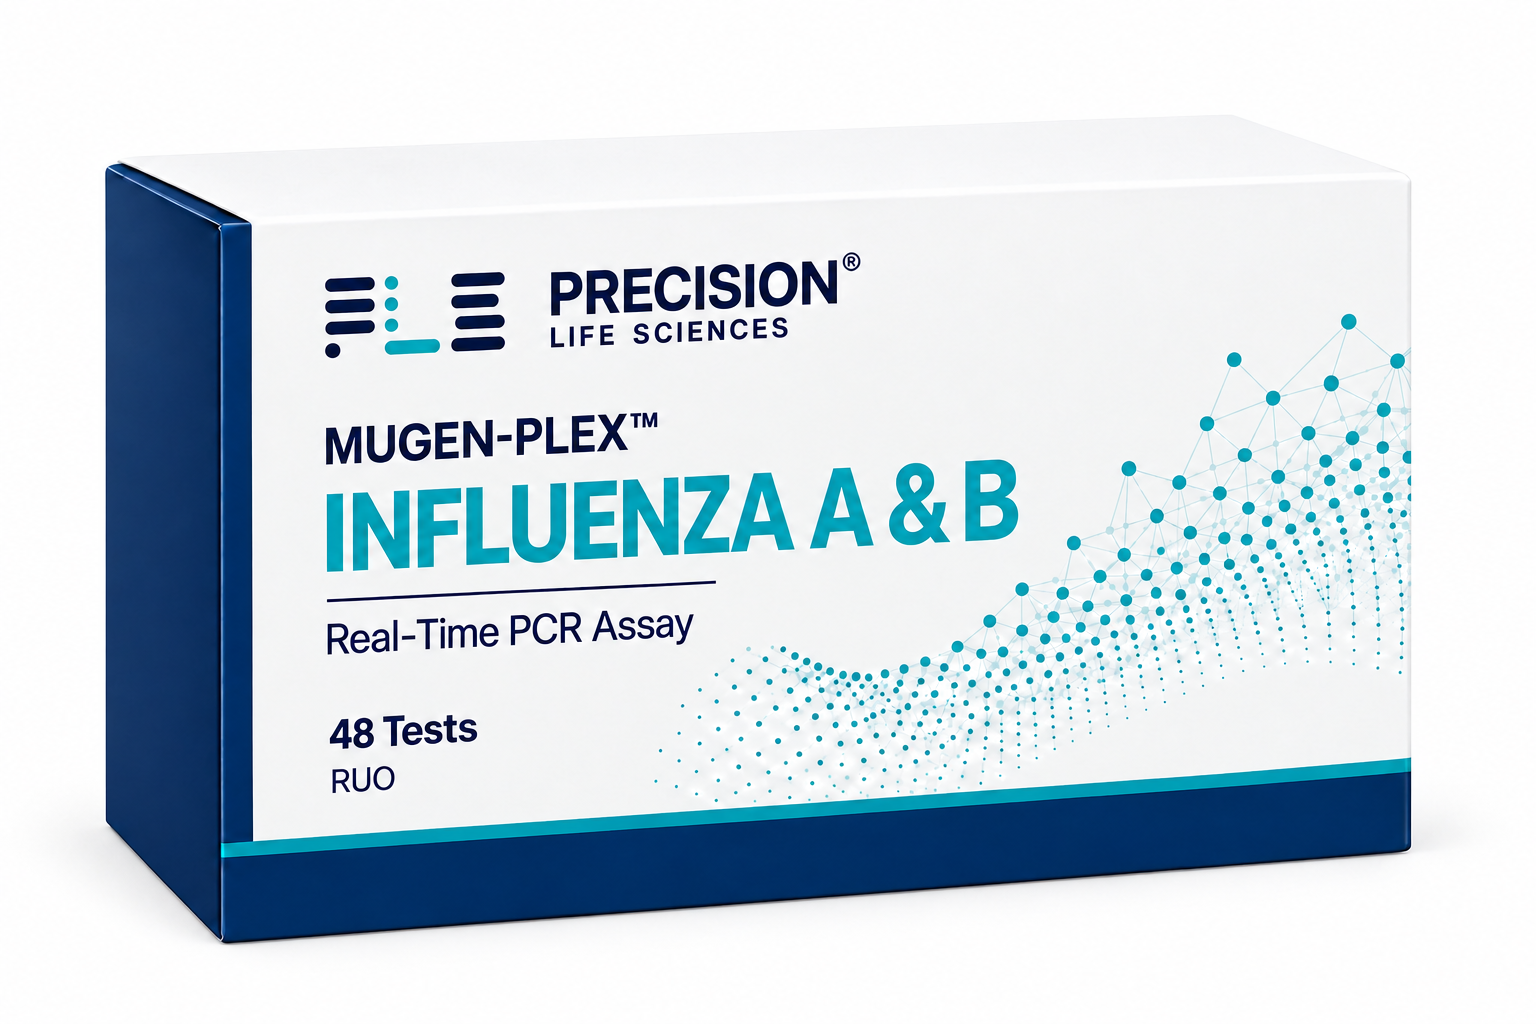
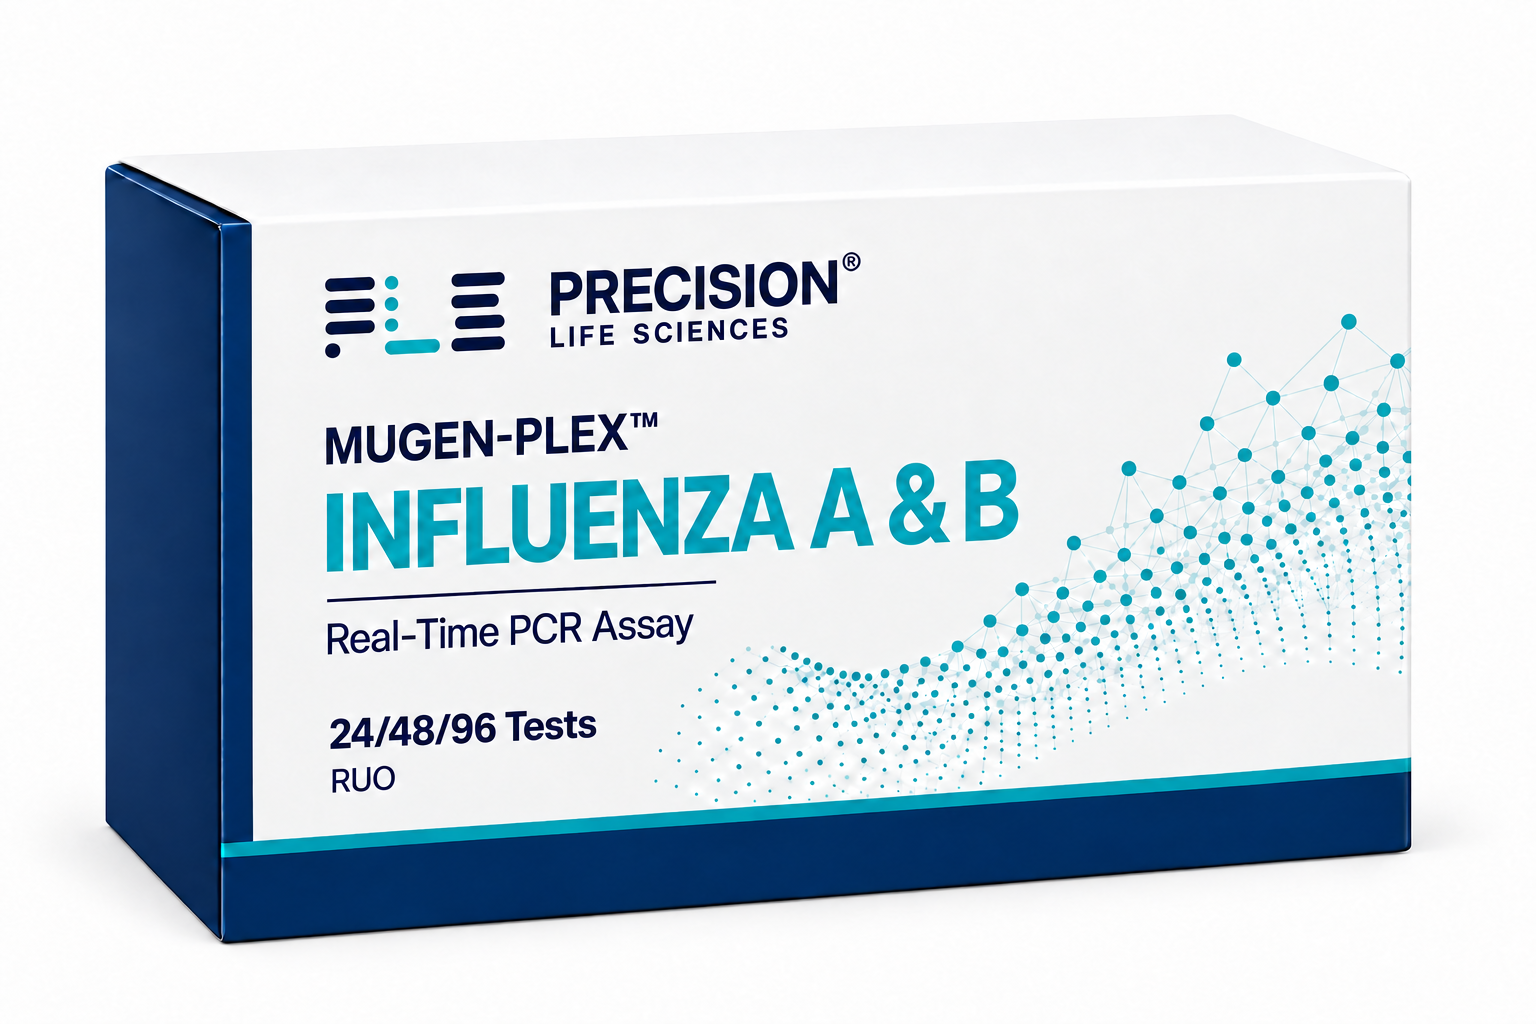
Add 24 48 and 96 test kit formats

Changed region(s): [[0.2188, 0.6875, 0.4062, 0.7812]]

diff --git a/src/components/ServicesContent.js b/src/components/ServicesContent.js
@@ -9,60 +9,60 @@ const FALLBACK_SERVICES = [
     id: 'hbv',
     slug: 'hbv',
     name: 'Mugen-Plex HBV Real-Time PCR Assay',
-    description: 'A consistent 48-test RUO kit format for hepatitis B virus research workflows.',
+    description: 'Available in 24-, 48-, and 96-test RUO kit formats for hepatitis B virus research workflows.',
     sample_type: 'Plasma',
     storage_condition: '2–8 °C',
-    price: '48 tests · RUO',
+    price: '24/48/96 Tests · RUO',
     color: 'hbv',
   },
   {
     id: 'hcv',
     slug: 'hcv',
     name: 'Mugen-Plex HCV Real-Time PCR Assay',
-    description: 'A consistent 48-test RUO kit format for hepatitis C virus research workflows.',
+    description: 'Available in 24-, 48-, and 96-test RUO kit formats for hepatitis C virus research workflows.',
     sample_type: 'Plasma',
     storage_condition: '2–8 °C',
-    price: '48 tests · RUO',
+    price: '24/48/96 Tests · RUO',
     color: 'hcv',
   },
   {
     id: 'hiv',
     slug: 'hiv',
     name: 'Mugen-Plex HIV Real-Time PCR Assay',
-    description: 'A consistent 48-test RUO kit format for human immunodeficiency virus research workflows.',
+    description: 'Available in 24-, 48-, and 96-test RUO kit formats for human immunodeficiency virus research workflows.',
     sample_type: 'Plasma',
     storage_condition: '2–8 °C',
-    price: '48 tests · RUO',
+    price: '24/48/96 Tests · RUO',
     color: 'hiv',
   },
   {
     id: 'dengue-chikungunya',
     slug: 'dengue / chikungunya',
     name: 'Mugen-Plex Dengue / Chikungunya Real-Time PCR Assay',
-    description: 'A combined 48-test RUO arbovirus assay in the shared Mugen-Plex format.',
+    description: 'A combined RUO arbovirus assay available in 24-, 48-, and 96-test kit formats.',
     sample_type: 'Plasma',
     storage_condition: '2–8 °C',
-    price: '48 tests · RUO',
+    price: '24/48/96 Tests · RUO',
     color: 'dengue',
   },
   {
     id: 'influenza',
     slug: 'influenza a & b',
     name: 'Mugen-Plex Influenza A & B Real-Time PCR Assay',
-    description: 'A 48-test RUO assay for influenza A and B research workflows.',
+    description: 'An RUO assay available in 24-, 48-, and 96-test kit formats for influenza A and B research workflows.',
     sample_type: 'Nasopharyngeal swab',
     storage_condition: '2–8 °C',
-    price: '48 tests · RUO',
+    price: '24/48/96 Tests · RUO',
     color: 'flu',
   },
   {
     id: 'cchf',
     slug: 'cchf',
     name: 'Mugen-Plex CCHF Real-Time PCR Assay',
-    description: 'A consistent 48-test RUO kit format for Crimean-Congo haemorrhagic fever virus research.',
+    description: 'Available in 24-, 48-, and 96-test RUO kit formats for Crimean-Congo haemorrhagic fever virus research.',
     sample_type: 'Plasma',
     storage_condition: '2–8 °C',
-    price: '48 tests · RUO',
+    price: '24/48/96 Tests · RUO',
     color: 'cchf',
   },
   {
@@ -70,7 +70,7 @@ const FALLBACK_SERVICES = [
     slug: 'bcr-abl1',
     name: 'Mugen-Plex Myeloid BCR-ABL1',
     description: 'BCR-ABL1 fusion transcript assay concept for chronic myeloid leukaemia research.',
-    price: 'In development · 48 tests · RUO',
+    price: 'In development · 24/48/96 Tests · RUO',
     color: 'dengue',
   },
   {
@@ -78,7 +78,7 @@ const FALLBACK_SERVICES = [
     slug: 'jak2',
     name: 'Mugen-Plex Myeloid JAK2',
     description: 'JAK2 mutation assay concept for myeloproliferative neoplasm research.',
-    price: 'In development · 48 tests · RUO',
+    price: 'In development · 24/48/96 Tests · RUO',
     color: 'flu',
   },
   {
@@ -86,7 +86,7 @@ const FALLBACK_SERVICES = [
     slug: 'mpl',
     name: 'Mugen-Plex Myeloid MPL',
     description: 'MPL mutation assay concept for myeloproliferative neoplasm research.',
-    price: 'In development · 48 tests · RUO',
+    price: 'In development · 24/48/96 Tests · RUO',
     color: 'hiv',
   },
   {
@@ -94,7 +94,7 @@ const FALLBACK_SERVICES = [
     slug: 'calr',
     name: 'Mugen-Plex Myeloid CALR',
     description: 'CALR mutation assay concept for myeloproliferative neoplasm research.',
-    price: 'In development · 48 tests · RUO',
+    price: 'In development · 24/48/96 Tests · RUO',
     color: 'cchf',
   },
   {
@@ -102,7 +102,7 @@ const FALLBACK_SERVICES = [
     slug: 'pml-rara',
     name: 'Mugen-Plex Myeloid PML-RARA',
     description: 'PML-RARA fusion transcript assay concept for acute promyelocytic leukaemia research.',
-    price: 'In development · 48 tests · RUO',
+    price: 'In development · 24/48/96 Tests · RUO',
     color: 'dengue',
   },
   {
@@ -110,7 +110,7 @@ const FALLBACK_SERVICES = [
     slug: 'mpn panel',
     name: 'Mugen-Plex Myeloid MPN Panel',
     description: 'JAK2, CALR and MPL assay panel concept for myeloproliferative neoplasm research.',
-    price: 'In development · 48 tests · RUO',
+    price: 'In development · 24/48/96 Tests · RUO',
     color: 'flu',
   },
   {
@@ -202,7 +202,7 @@ export default function ServicesContent() {
       <p className="text-center text-gray-500 mb-12">RUO portfolio and molecular-development services</p>
 
       <div className="mx-auto mb-16 flex max-w-3xl flex-wrap justify-center gap-3 text-xs font-bold uppercase tracking-[0.12em] text-navy">
-        {['48-test format', 'RUO', '2–8 °C storage', 'Local technical discussion'].map((item) => (
+        {['24/48/96-test formats', 'RUO', '2–8 °C storage', 'Local technical discussion'].map((item) => (
           <span key={item} className="rounded-full border border-navy/10 bg-graybg px-4 py-2.5">{item}</span>
         ))}
       </div>

diff --git a/src/app/page.js b/src/app/page.js
@@ -20,7 +20,7 @@ const ASSAY_MARKERS = [
 ];
 
 const PROOF_POINTS = [
-  { value: '48', label: 'tests per kit' },
+  { value: '24/48/96', label: 'tests per kit' },
   { value: '2–8 °C', label: 'storage' },
   { value: '6', label: 'infectious assays' },
   { value: '1', label: 'consistent family' },
@@ -96,7 +96,7 @@ export default function Home() {
               One family. Many assays. Total consistency.
             </h1>
             <p className="mx-auto mt-6 max-w-2xl text-base leading-relaxed text-slate-300 md:text-lg lg:mx-0">
-              A unified RUO assay family with a consistent 48-test format, clear colour-coding and responsive local support.
+              A unified RUO assay family in 24-, 48-, and 96-test formats, with clear colour-coding and responsive local support.
             </p>
 
             <div className="mt-9 flex flex-wrap justify-center gap-3 lg:justify-start">
@@ -150,7 +150,7 @@ export default function Home() {
               </div>
             </div>
             <span className="absolute -bottom-4 right-7 rounded-full border border-white/15 bg-navy px-4 py-2 text-xs font-bold uppercase tracking-[0.14em] text-cyan shadow-lg">
-              48-test RUO format
+              24/48/96-test RUO formats
             </span>
           </motion.div>
         </div>

diff --git a/src/components/MyeloidRange.js b/src/components/MyeloidRange.js
@@ -28,7 +28,7 @@ export default function MyeloidRange() {
           </h2>
           <p className="text-gray-300 max-w-2xl mx-auto mt-4 leading-relaxed">
             Real-time PCR assays for key molecular markers of haematological malignancies, in the same
-            family and format as our infectious-disease kits. Planned in a 48-test RUO format.
+            family and format as our infectious-disease kits. Planned in 24-, 48-, and 96-test RUO formats.
           </p>
         </motion.div>
 
@@ -45,7 +45,7 @@ export default function MyeloidRange() {
               <div className="relative bg-white aspect-[3/2]">
                 <Image
                   src={`/images/myeloid/Mugen-Plex_Myeloid_${k.slug}.jpg`}
-                  alt={`Mugen-Plex Myeloid ${k.title} 48-test real-time PCR assay kit by Precision Life Sciences.`}
+                  alt={`Mugen-Plex Myeloid ${k.title} 24/48/96-test real-time PCR assay kit by Precision Life Sciences.`}
                   fill
                   sizes="(max-width: 640px) 100vw, (max-width: 1024px) 50vw, 384px"
                   className="object-contain p-5"

diff --git a/src/components/InfectiousRange.js b/src/components/InfectiousRange.js
@@ -46,7 +46,7 @@ function AssayCarton({ assay }) {
       <div className="relative aspect-[3/2] overflow-hidden bg-[radial-gradient(circle_at_50%_20%,#ffffff_0%,#eef5fa_62%,#dbe8f1_100%)]">
         <Image
           src={assay.image}
-          alt={`Mugen-Plex ${assay.name} 48-test real-time PCR assay carton by Precision Life Sciences.`}
+          alt={`Mugen-Plex ${assay.name} 24/48/96-test real-time PCR assay carton by Precision Life Sciences.`}
           fill
           sizes="(min-width: 1024px) 33vw, (min-width: 640px) 50vw, 100vw"
           className="object-contain p-2 transition-transform duration-500 group-hover:scale-[1.035]"
@@ -64,7 +64,7 @@ function AssayCarton({ assay }) {
             <p className="mt-1 text-sm text-slate-500">{assay.description}</p>
           </div>
           <span className="shrink-0 rounded-full bg-graybg px-3 py-1 text-[0.68rem] font-bold uppercase tracking-wide text-navy">
-            48 tests
+            24/48/96 Tests
           </span>
         </div>
       </div>

diff --git a/src/components/TrustBadges.js b/src/components/TrustBadges.js
@@ -4,7 +4,7 @@ import { motion } from 'framer-motion';
 
 const FALLBACK_BADGES = [
   { id: 'ruo', title: 'Clear RUO positioning', description: 'Product status is stated consistently across the portfolio and customer journey.' },
-  { id: 'format', title: 'Consistent 48-test format', description: 'A shared presentation helps laboratories move between assays with less friction.' },
+  { id: 'format', title: '24/48/96-test formats', description: 'A shared presentation helps laboratories move between assays with less friction.' },
   { id: 'storage', title: '2–8 °C storage', description: 'The stated storage range is surfaced clearly where customers compare products.' },
   { id: 'support', title: 'Pakistan-based support', description: 'A local team is available for product information, research discussion and follow-up.' },
 ];

diff --git a/src/components/AboutContent.js b/src/components/AboutContent.js
@@ -41,7 +41,7 @@ export default function AboutContent() {
           </div>
           <div className="grid gap-5 md:grid-cols-3">
             {[
-              ['A coherent portfolio', 'Each assay belongs to one recognisable Mugen-Plex family, with the same core presentation and 48-test format.'],
+              ['A coherent portfolio', 'Each assay belongs to one recognisable Mugen-Plex family, with the same core presentation across 24-, 48-, and 96-test formats.'],
               ['Clear product distinction', 'Assay-specific colour and naming help teams identify the right kit without adding visual clutter.'],
               ['Reachable local support', 'Product enquiries, research collaboration and technical follow-up are handled through a Pakistan-based team.'],
             ].map(([title, text], i) => (

diff --git a/src/components/FAQ.js b/src/components/FAQ.js
@@ -11,7 +11,7 @@ const FAQS = [
   {
     id: 'format',
     question: 'What format does each kit use?',
-    answer: 'The current portfolio is presented in a consistent 48-test format. Request the relevant product information for the assay-specific contents and workflow.',
+    answer: 'The current portfolio is presented in consistent 24-, 48-, and 96-test formats. Request the relevant product information for the assay-specific contents and workflow.',
   },
   {
     id: 'storage',
